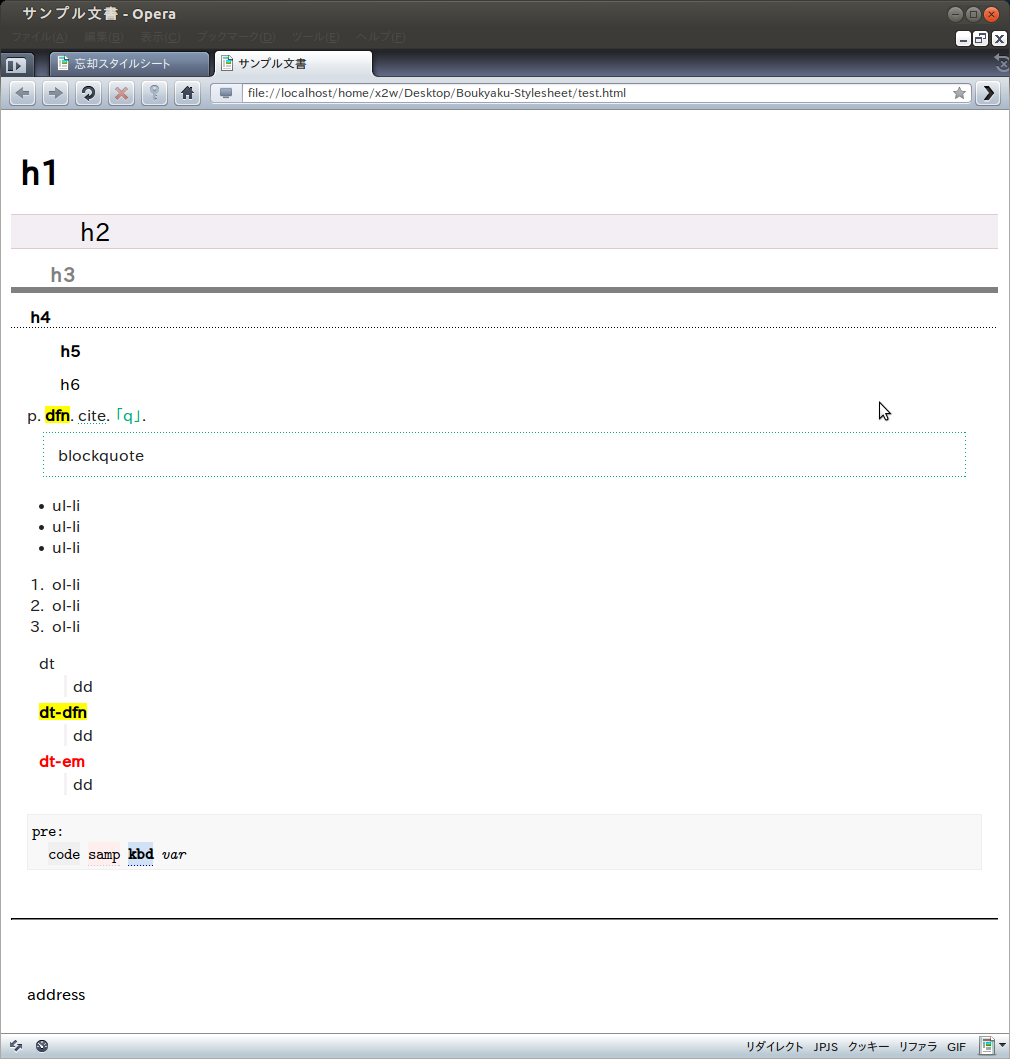
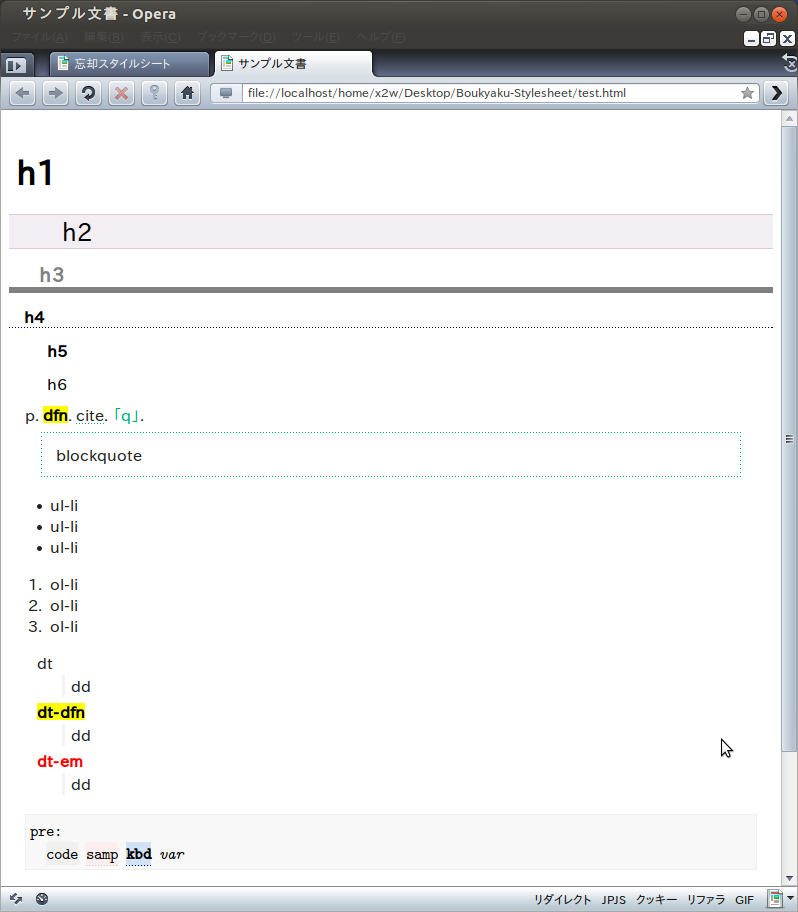
modified:   README.html 	modified:   screenshot-opera.png

Changed region(s): [[0.0, 0.0, 1.0, 1.0], [0.9023, 0.7982, 0.9323, 0.8289], [0.8722, 0.3684, 0.9023, 0.3991]]

diff --git a/README.html b/README.html
@@ -13,6 +13,10 @@
 <h2>概要</h2>
 <p><a href="http://www.x2w.org/">X2ODP</a>で用ゐてゐるスタイルシートです。</p>
 
+<ul>
+  <li><a href="screenshot-opera.png"><img src="screenshot-opera.png" alt=" " /></a></li>
+</ul>
+
 <h2>特徴</h2>
 <ul>
   <li>シンプルなスタイル。</li>
